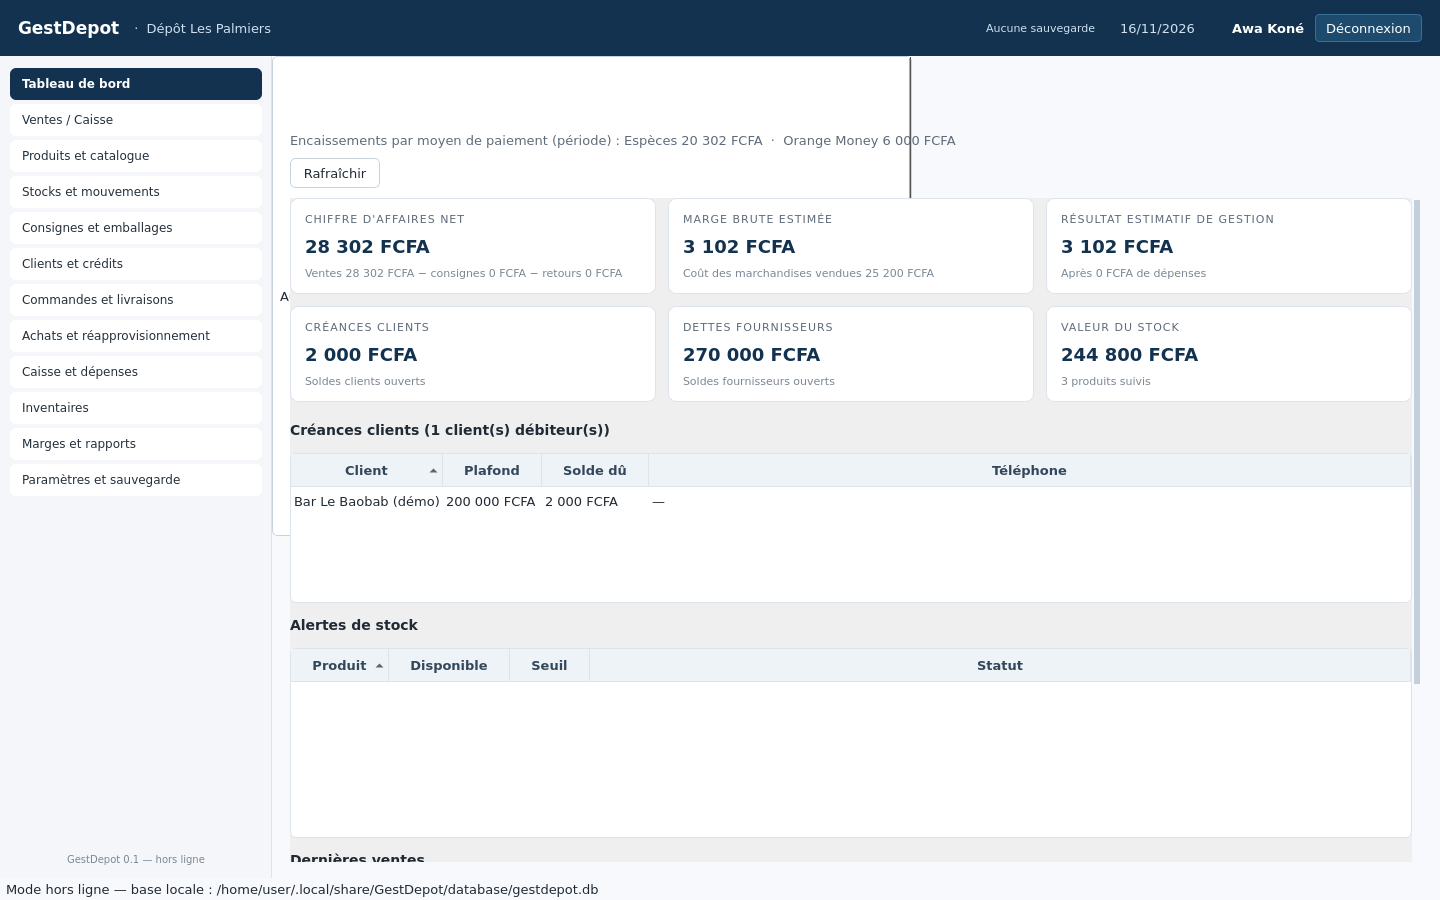
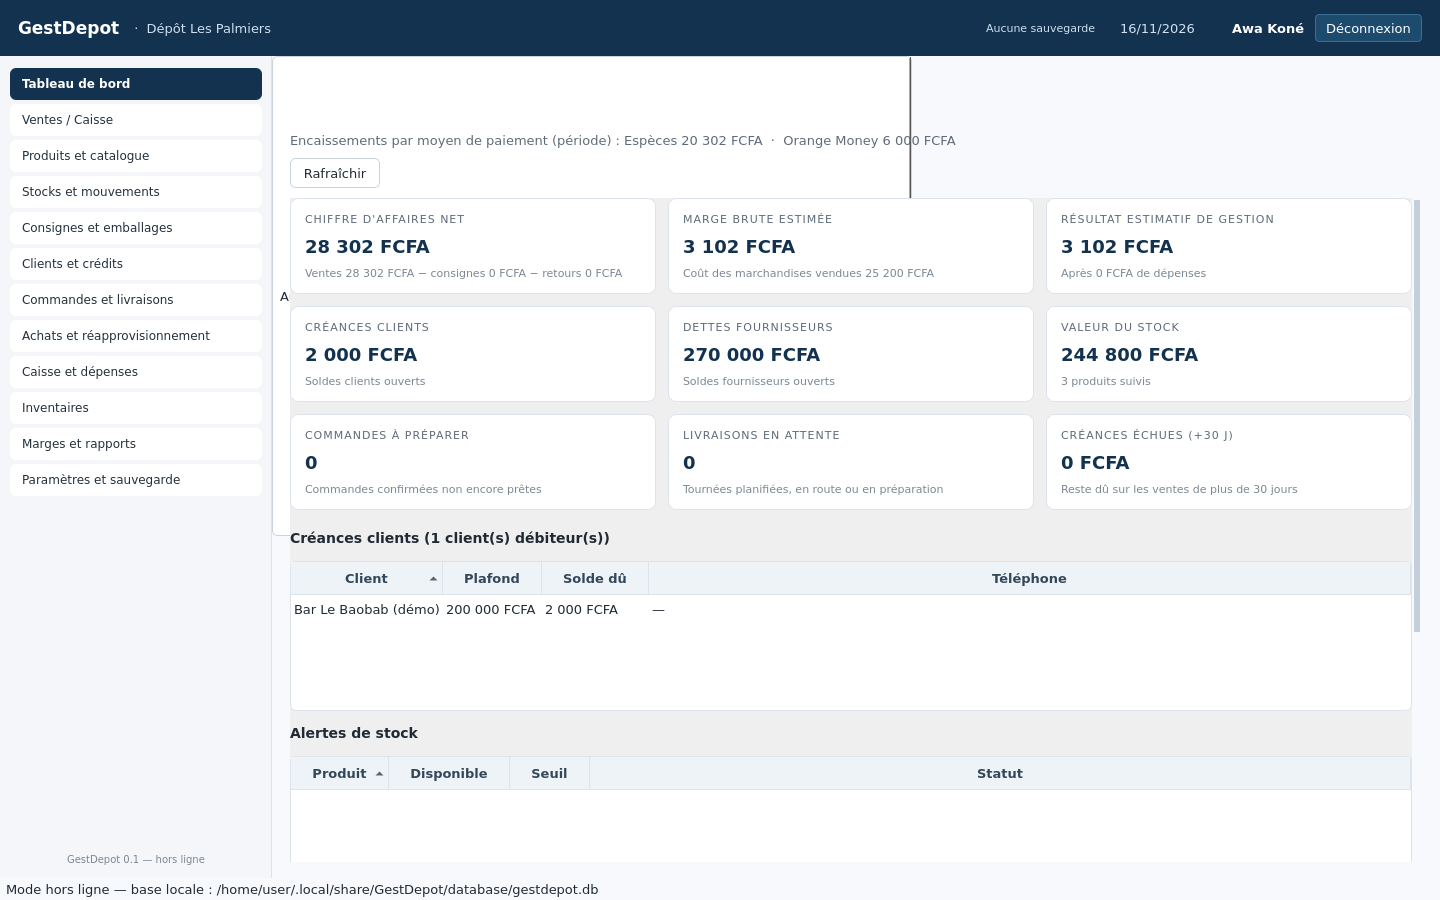
P1: indicateurs de livraison et crédits échus au tableau de bord (§5.4)
- dashboard(): commandes à préparer, livraisons en attente, créances échues +30j
- trois cartes supplémentaires, formatage entier/monnaie distinct
- 2 tests d'intégration, test d'écran ajusté, capture dashboard régénérée

diff --git a/src/gestdepot/services/reporting_service.py b/src/gestdepot/services/reporting_service.py
@@ -11,7 +11,9 @@ from sqlalchemy import func, select
 from ..database.models import (
     CashMovement,
     Customer,
+    CustomerOrder,
     CustomerPayment,
+    Delivery,
     Expense,
     Sale,
     SaleLine,
@@ -86,6 +88,20 @@ class ReportingService:
             payables = int(s.scalar(
                 select(func.coalesce(func.sum(Supplier.balance), 0))
                 .where(Supplier.active.is_(True))) or 0)
+            # §5.4 : activité de livraison et crédits échus
+            orders_to_prepare = int(s.scalar(
+                select(func.count(CustomerOrder.id)).where(
+                    CustomerOrder.status.in_(("confirmed", "preparing")))) or 0)
+            deliveries_pending = int(s.scalar(
+                select(func.count(Delivery.id)).where(
+                    Delivery.status.in_(("pending", "preparing",
+                                         "in_transit")))) or 0)
+            overdue_credit = int(s.scalar(
+                select(func.coalesce(func.sum(Sale.total_amount
+                                              - Sale.paid_amount), 0))
+                .where(Sale.status == "confirmed",
+                       Sale.total_amount > Sale.paid_amount,
+                       Sale.at < period.start - timedelta(days=30))) or 0)
             payments = s.execute(
                 select(CustomerPayment.payment_method,
                        func.coalesce(func.sum(CustomerPayment.amount), 0))
@@ -120,6 +136,9 @@ class ReportingService:
             "low_stock": [a for a in alerts if a["status"] == "sous_seuil"],
             "out_of_stock": [a for a in alerts if a["status"] == "rupture"],
             "products_count": len(stock.stock_levels()),
+            "orders_to_prepare": orders_to_prepare,
+            "deliveries_pending": deliveries_pending,
+            "overdue_credit": overdue_credit,
         }
 
     def sales_by_day(self, period: Period):

diff --git a/tests/integration/test_deliveries.py b/tests/integration/test_deliveries.py
@@ -277,3 +277,38 @@ class TestBonDeLivraison:
         with session_scope() as s:
             documents = list(s.scalars(select(GeneratedDocument)))
         assert documents and documents[0].document_type == "bon_livraison"
+
+
+class TestIndicateursLivraison:
+    """§5.4 : commandes à préparer, livraisons en attente, crédits échus."""
+
+    def test_compteurs_dans_le_tableau_de_bord(self, delivery, reporting, customer,
+                                               item, stocked_product, admin):
+        from gestdepot.services.reporting_service import Period
+        order = delivery.create_order(customer.id, [item], reserve_stock=False)
+        delivery.confirm_order(order.id)
+        delivery.plan_delivery(order.id, driver="Yao")
+        data = reporting.dashboard(Period.today())
+        assert data["orders_to_prepare"] == 1
+        assert data["deliveries_pending"] == 1
+        assert data["overdue_credit"] == 0
+
+    def test_credit_echu_compte(self, delivery, reporting, sales, customer,
+                                stocked_product, admin):
+        from datetime import datetime, timedelta
+
+        from sqlalchemy import update
+
+        from gestdepot.database.models import Sale
+        from gestdepot.database.session import session_scope
+        from gestdepot.services.reporting_service import Period
+        product, _ = stocked_product
+        sale = sales.confirm_sale(
+            items=[{"product_id": product.id, "packaging_id": None,
+                    "quantity_display": 2}],
+            paid_amount=0, customer_id=customer.id, price_list_id=None)
+        with session_scope() as s:
+            s.execute(update(Sale).where(Sale.id == sale.id).values(
+                at=datetime.now() - timedelta(days=45)))
+        data = reporting.dashboard(Period.today())
+        assert data["overdue_credit"] > 0

diff --git a/src/gestdepot/ui/pages/dashboard_page.py b/src/gestdepot/ui/pages/dashboard_page.py
@@ -86,6 +86,9 @@ class DashboardPage(Page):
         ("receivables", "Créances clients"),
         ("payables", "Dettes fournisseurs"),
         ("stock_value", "Valeur du stock"),
+        ("orders_to_prepare", "Commandes à préparer"),
+        ("deliveries_pending", "Livraisons en attente"),
+        ("overdue_credit", "Créances échues (+30 j)"),
     ]
 
     def _build_cards(self) -> None:
@@ -108,10 +111,17 @@ class DashboardPage(Page):
             "receivables": "Soldes clients ouverts",
             "payables": "Soldes fournisseurs ouverts",
             "stock_value": f"{data['products_count']} produits suivis",
+            "orders_to_prepare": "Commandes confirmées non encore prêtes",
+            "deliveries_pending": "Tournées planifiées, en route ou en préparation",
+            "overdue_credit": "Reste dû sur les ventes de plus de 30 jours",
         }
+        money_keys = {"net_sales", "gross_margin", "estimated_result",
+                      "receivables", "payables", "stock_value", "overdue_credit"}
         for key, _title in self.CARD_TITLES:
             widget = self.cards[key]
-            widget.value_label.setText(money(data[key]))
+            value = data[key]
+            widget.value_label.setText(money(value) if key in money_keys
+                                       else str(value))
             widget.hint_label.setText(hints[key])
 
     def refresh(self) -> None:

diff --git a/tests/ui/test_ui_smoke.py b/tests/ui/test_ui_smoke.py
@@ -69,13 +69,14 @@ class TestFenetrePrincipale:
             window.pages[key].refresh()
 
     def test_dashboard_affiche_indicateurs(self, window, stocked_product):
-        """Les 6 cartes existent et sont mises à jour sans se dupliquer (§5.4)."""
+        """Les cartes existent et sont mises à jour sans se dupliquer (§5.4)."""
         window._select("dashboard")
         page = window.pages["dashboard"]
-        assert page.cards_grid.count() == 6
+        expected = len(page.CARD_TITLES)              # 6 indicateurs + 3 (§5.4)
+        assert page.cards_grid.count() == expected == 9
         page.refresh()
         page.refresh()
-        assert page.cards_grid.count() == 6          # aucune carte recréée
+        assert page.cards_grid.count() == expected    # aucune carte recréée
         assert page.cards["net_sales"].value_label.text().endswith("FCFA")
 
     def test_dashboard_avec_ventes_et_depenses(self, window, sales, cash,

diff --git a/RELEASE_NOTES.md b/RELEASE_NOTES.md
@@ -39,6 +39,9 @@
   « Commandes et livraisons » à deux onglets.
 - `SalesService.prepare_sale()` factorise les contrôles de vente ; `draft_lines`
   accepte un prix négocié de commande.
+- **Tableau de bord §5.4 complété** : trois cartes supplémentaires —
+  commandes à préparer, livraisons en attente, créances échues de plus de
+  30 jours.
 
 ## v0.1.5 — politique de sauvegarde pilotable (16 novembre 2026)
 
@@ -214,7 +217,7 @@
 - **Rapports** : tableau de bord, marges, exports Excel et PDF.
 - **Sauvegarde** : copie cohérente via l'API SQLite, contrôle d'intégrité,
   empreinte SHA-256, restauration protégée par authentification et vérification.
-- **Tests** : 245 tests (scénarios T01–T18, paiements mixtes, ventes suspendues,
+- **Tests** : 247 tests (scénarios T01–T18, paiements mixtes, ventes suspendues,
   retours, achats/consignes, migrations et mise à niveau automatique, atomicité,
   schéma, exports, tickets, interface).
 
